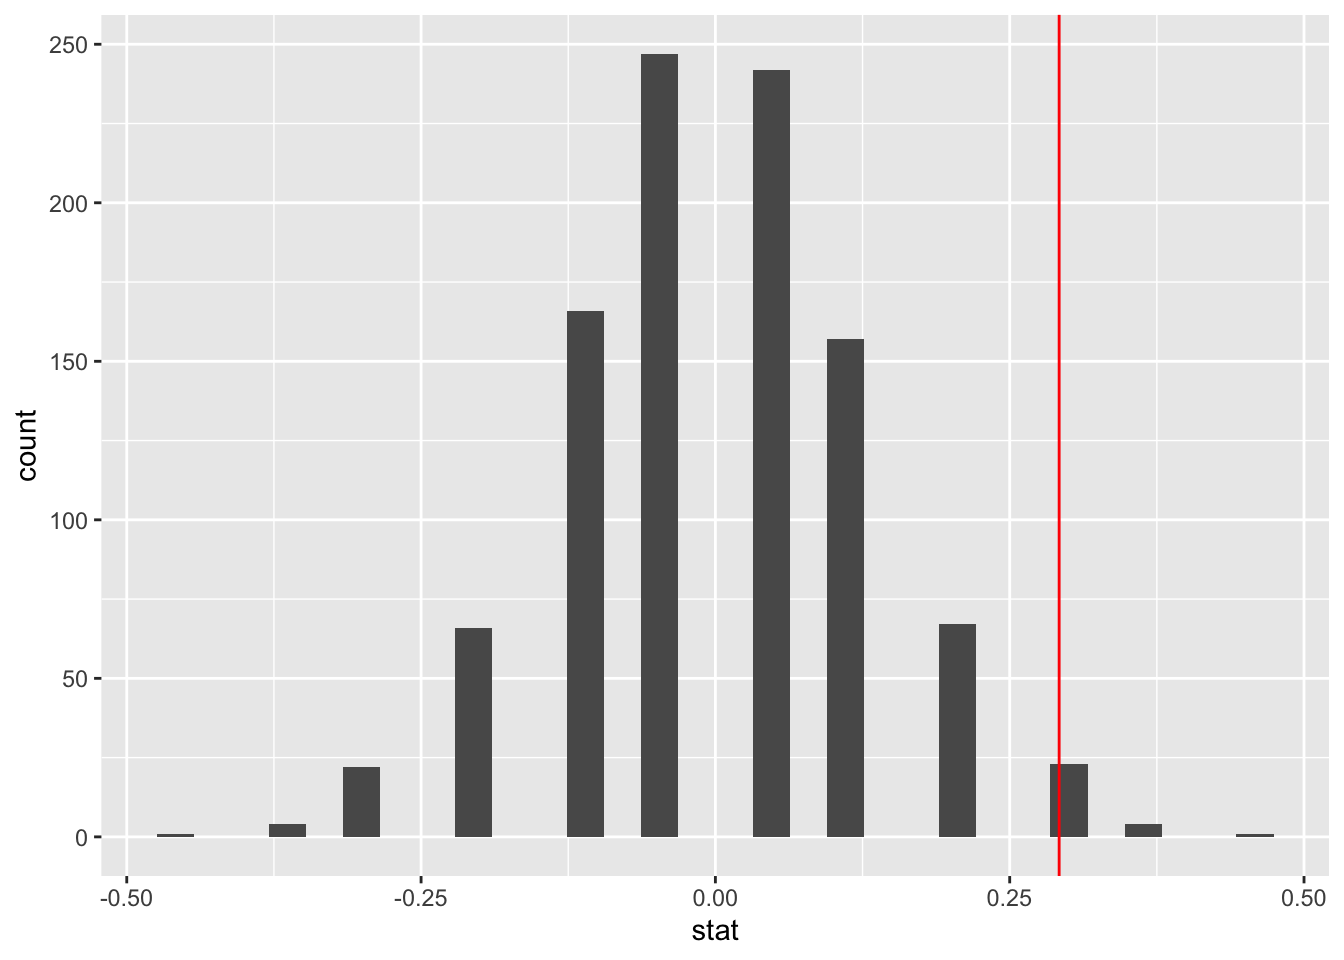
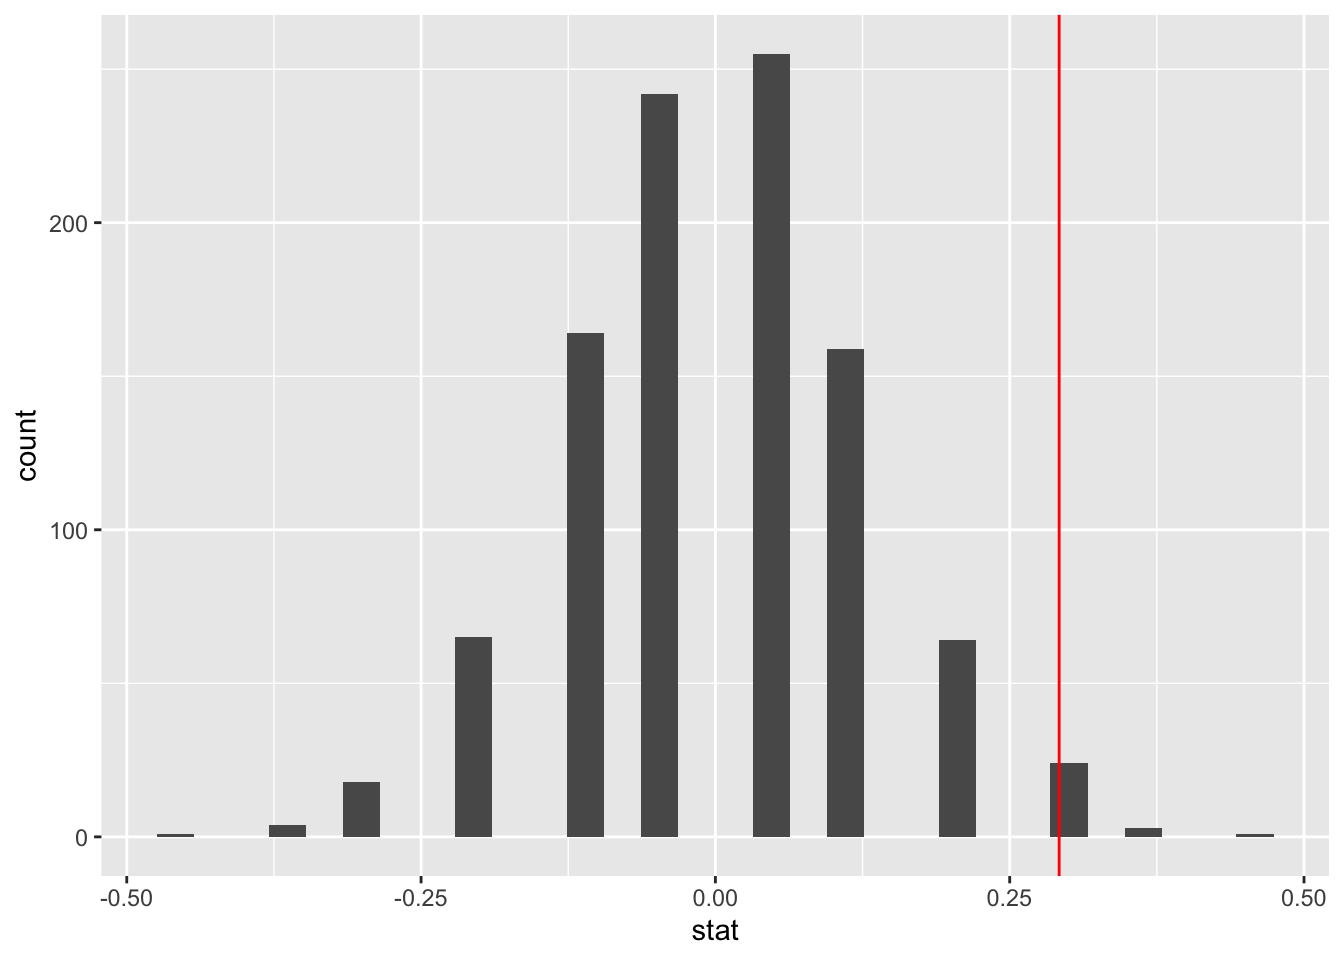
Lab 4 title edit.

diff --git a/docs/labs/lab_4.html b/docs/labs/lab_4.html
@@ -4,7 +4,7 @@
 <meta charset="utf-8">
 <meta name="generator" content="quarto-1.6.36">
 <meta name="viewport" content="width=device-width, initial-scale=1.0, user-scalable=yes">
-<title>Lab 6: Introduction to Inference - Hypothesis Testing – MATH 144 - Business Statistics</title>
+<title>Lab 4: Introduction to Inference - Hypothesis Testing – MATH 144 - Business Statistics</title>
 <style>
 code{white-space: pre-wrap;}
 span.smallcaps{font-variant: small-caps;}
@@ -123,13 +123,13 @@ window.Quarto = {
   typesetMath
 };
 </script>
-<meta property="og:title" content="Lab 6: Introduction to Inference - Hypothesis Testing – MATH 144 - Business Statistics">
+<meta property="og:title" content="Lab 4: Introduction to Inference - Hypothesis Testing – MATH 144 - Business Statistics">
 <meta property="og:description" content="Inference for Difference in Two Proportions">
 <meta property="og:image" content="https://jmochogi.github.io/business-stats-f26/labs/lab_4_files/figure-html/unnamed-chunk-3-1.png">
 <meta property="og:site_name" content="MATH 144 - Business Statistics">
 <meta property="og:image:height" content="960">
 <meta property="og:image:width" content="1344">
-<meta name="twitter:title" content="Lab 6: Introduction to Inference - Hypothesis Testing – MATH 144 - Business Statistics">
+<meta name="twitter:title" content="Lab 4: Introduction to Inference - Hypothesis Testing – MATH 144 - Business Statistics">
 <meta name="twitter:description" content="Inference for Difference in Two Proportions">
 <meta name="twitter:image" content="https://jmochogi.github.io/business-stats-f26/labs/img/twitter-card.png">
 <meta name="twitter:creator" content="@jmochogi">
@@ -324,10 +324,10 @@ window.Quarto = {
     </div>
 <!-- main -->
 <main class="content" id="quarto-document-content"><header id="title-block-header" class="quarto-title-block default"><nav class="quarto-page-breadcrumbs quarto-title-breadcrumbs d-none d-lg-block" aria-label="breadcrumb"><ol class="breadcrumb"><li class="breadcrumb-item"><a href="../labs/lab_1.html">Labs</a></li><li class="breadcrumb-item"><a href="../labs/lab_4.html">Lab 4</a></li></ol></nav><div class="quarto-title">
-<h1 class="title">Lab 6: Introduction to Inference - Hypothesis Testing</h1>
+<h1 class="title">Lab 4: Introduction to Inference - Hypothesis Testing</h1>
 <p class="subtitle lead">Inference for Difference in Two Proportions</p>
   <div class="quarto-categories">
-    <div class="quarto-category">Lab 6</div>
+    <div class="quarto-category">Lab 4</div>
   </div>
   </div>
 
@@ -469,11 +469,11 @@ Null Hypothesis: indepe...
 # A tibble: 6 × 2
   replicate    stat
       &lt;int&gt;   &lt;dbl&gt;
-1         1 -0.125 
+1         1 -0.0417
 2         2 -0.0417
-3         3  0.208 
-4         4  0.0417
-5         5 -0.125 
+3         3  0.0417
+4         4 -0.0417
+5         5  0.0417
 6         6 -0.0417</code></pre>
 </div>
 </div>
@@ -501,7 +501,7 @@ Null Hypothesis: indepe...
 <pre><code># A tibble: 1 × 1
   p_value
     &lt;dbl&gt;
-1   0.005</code></pre>
+1   0.004</code></pre>
 </div>
 </div>
 <p>Here, the argument <code>obs_stat</code> is used to set the observed statistic, while <code>direction</code> is for specifying the alternative hypothesis. Since our observed statistic is to the right of the center, and our alternative hypothesis is directional, we set the direction argument to “greater”. If the alternative hypothesis was bidirectional or two-sided (i.e., <span class="math inline">\(p_M-p_F \neq 0\)</span>), we would set direction to <code>two-sided</code>, which means we would be looking for values that are as extreme as 0.2917 in either direction (both left and right tails of the distribution). This would essentially double the P-value.</p>
